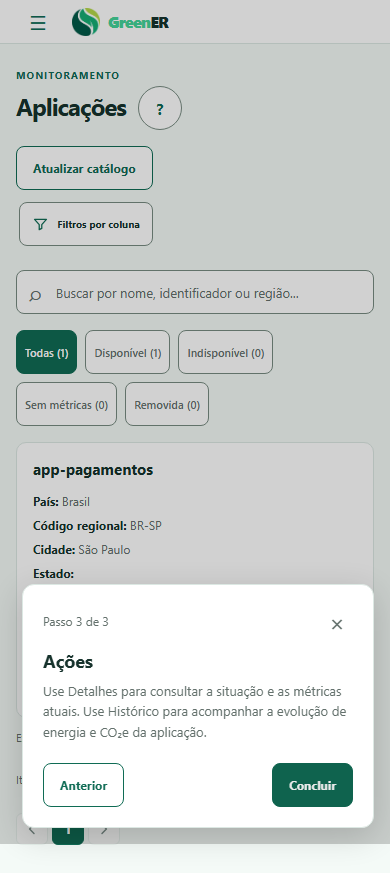
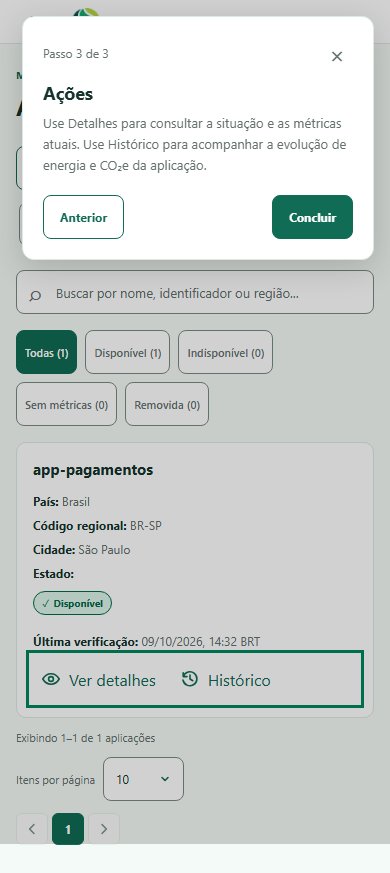
fix(frontend): manter área explicada visível durante a ajuda
Posiciona o diálogo no topo quando o alvo está na metade inferior da tela. O teste mobile reproduziu a sobreposição e agora verifica que as ações destacadas ficam visíveis.

diff --git a/frontend/src/components/PageHelp.module.css b/frontend/src/components/PageHelp.module.css
@@ -3,6 +3,7 @@
 .trigger:focus-visible, .close:focus-visible { outline: 3px solid var(--focus-ring); outline-offset: 3px; }
 .dialog { position: fixed; inset: auto 24px 24px auto; width: min(400px, calc(100vw - 32px)); max-height: calc(100dvh - 32px); overflow: auto; margin: 0; border: 1px solid var(--border-default); border-radius: 12px; padding: 20px; color: var(--text-primary); background: var(--surface-card); box-shadow: 0 8px 32px rgb(0 0 0 / 16%); }
 .dialog::backdrop { background: rgb(0 0 0 / 18%); }
+.dialog[data-placement='top'] { top: 16px; bottom: auto; }
 .dialog header { display: flex; align-items: center; justify-content: space-between; gap: 12px; color: var(--text-secondary); font-size: 12px; }
 .close { display: grid; width: 32px; height: 32px; place-items: center; border: 0; border-radius: 6px; padding: 0; color: var(--text-secondary); background: transparent; font: inherit; font-size: 24px; cursor: pointer; }
 .dialog h2 { margin: 12px 0 8px; font-size: 18px; }

diff --git a/frontend/e2e/page-help.spec.ts b/frontend/e2e/page-help.spec.ts
@@ -54,6 +54,10 @@ for (const width of [1366, 390]) {
     await dialog.getByRole('button', { name: 'Próximo', exact: true }).click()
     await dialog.getByRole('button', { name: 'Próximo', exact: true }).click()
     await expect(dialog).toContainText('Use Detalhes')
+    const target = await page.locator('[data-help="application-actions"]:visible').first().boundingBox()
+    const tutorial = await dialog.boundingBox()
+    expect(target!.y + target!.height <= tutorial!.y || tutorial!.y + tutorial!.height <= target!.y,
+      'the tutorial must leave its highlighted actions visible').toBe(true)
     await page.screenshot({ path: testInfo.outputPath('help.png'), fullPage: true })
     await dialog.getByRole('button', { name: 'Concluir', exact: true }).click()
     await expect(trigger).toBeFocused()

diff --git a/frontend/src/components/PageHelp.tsx b/frontend/src/components/PageHelp.tsx
@@ -19,6 +19,7 @@ export function PageHelp({ steps }: Readonly<{ steps: readonly [HelpStep, ...Hel
     const element = target ? [...document.querySelectorAll<HTMLElement>(target)].find(item => item.getClientRects().length > 0) : null
     element?.scrollIntoView({ block: 'nearest', inline: 'nearest' })
     element?.classList.add(styles.highlight)
+    if (dialog.current) dialog.current.dataset.placement = element && element.getBoundingClientRect().top > window.innerHeight / 2 ? 'top' : 'bottom'
     dialog.current?.showModal()
     return () => element?.classList.remove(styles.highlight)
   }, [step, target])
